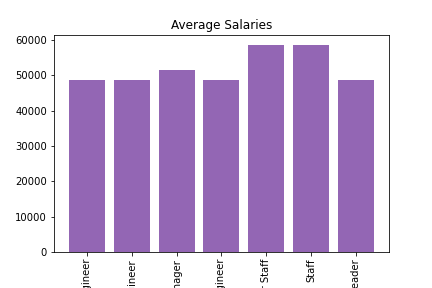
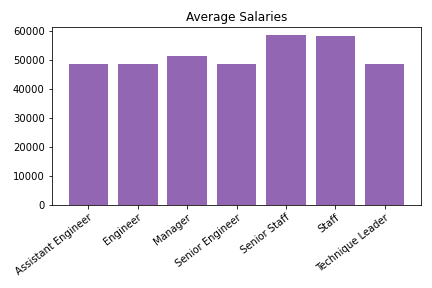
Final Bonus Cleanup and ReadME Edits

diff --git a/README.md b/README.md
@@ -1,5 +1,6 @@
 # SQL Employee Database
 ### Database of Managers and Staff across 9 Departments
+
 Authors:
 * John Torgerson (JohnTorgerson)
 ---  
@@ -14,6 +15,7 @@ Quick DBD website: https://app.quickdatabasediagrams.com/
 ---
 
 ### Guide to Repo Contents:
+
 * `EmployeeQueries.sql` is the sql code used to make queries from the database
     -- you'll notice Question 6 has two answers, this was an effort to deliver results along two different paths
 * `EmployeeSchemata.sql` is the original schemata directly exported from Quick DBD
@@ -21,17 +23,26 @@ Quick DBD website: https://app.quickdatabasediagrams.com/
 * `EmployeeSchemataERD.jpg` is a visualization of the ERD created on Quick DBD
 * `HistogramOfSalaries.png` is a histogram of all employees and how much they make broken into 25 bins
 * `AverageSalariesBar.png` is a bar chart showing the average salary by job title
-
-* In folder `data` are 6 tables
+---
+* In folder `data` are the following 6 tables
     1. `departments.csv` is a table of the Departments
-    2. `data` is a junction table between Departments and Employees
-    3. `data` is a junction table specific to Management
-    4. `data` is a table of all Employees
-    5. `data` is a table of employees' Salaries
-    6. `data` is a table of employee job titles
+    2. `dept_emp.csv` is a junction table between Departments and Employees
+    3. `dept_manager.csv` is a junction table specific to Management
+    4. `employees.csv` is a table of all Employees
+    5. `salaries.csv` is a table of employees' Salaries
+    6. `titles.csv` is a table of employee job titles
     
 ---
 
+### Observations:
+* Most frequently, employees make a starting salary of 40,000, and very few employees make more than 100,000.
+* The relationship is inverse.
+* Engineer, Asst Engineer, Senior Engineer have similar AVG Salaries, with Senior Engineers making the least of the group. Meanwhile Senior Staff as well as general Staff, both AVG nearly 12,000 more. Also, from our previous examples, there are an awful lot of women named Hercules B____, which seems improbable.
+* Either something is wrong, or this company data is fictional.
+
+
+
 ### Credits and Special Thanks
-Tom Lenzmeier for sharing a name concatenation
-Thanks to Sanoo Singh for inspiring me to practice subquery method
+
+* Tom Lenzmeier for sharing a name concatenation; 
+* Thanks to Sanoo Singh for inspiring me to practice subquery method
